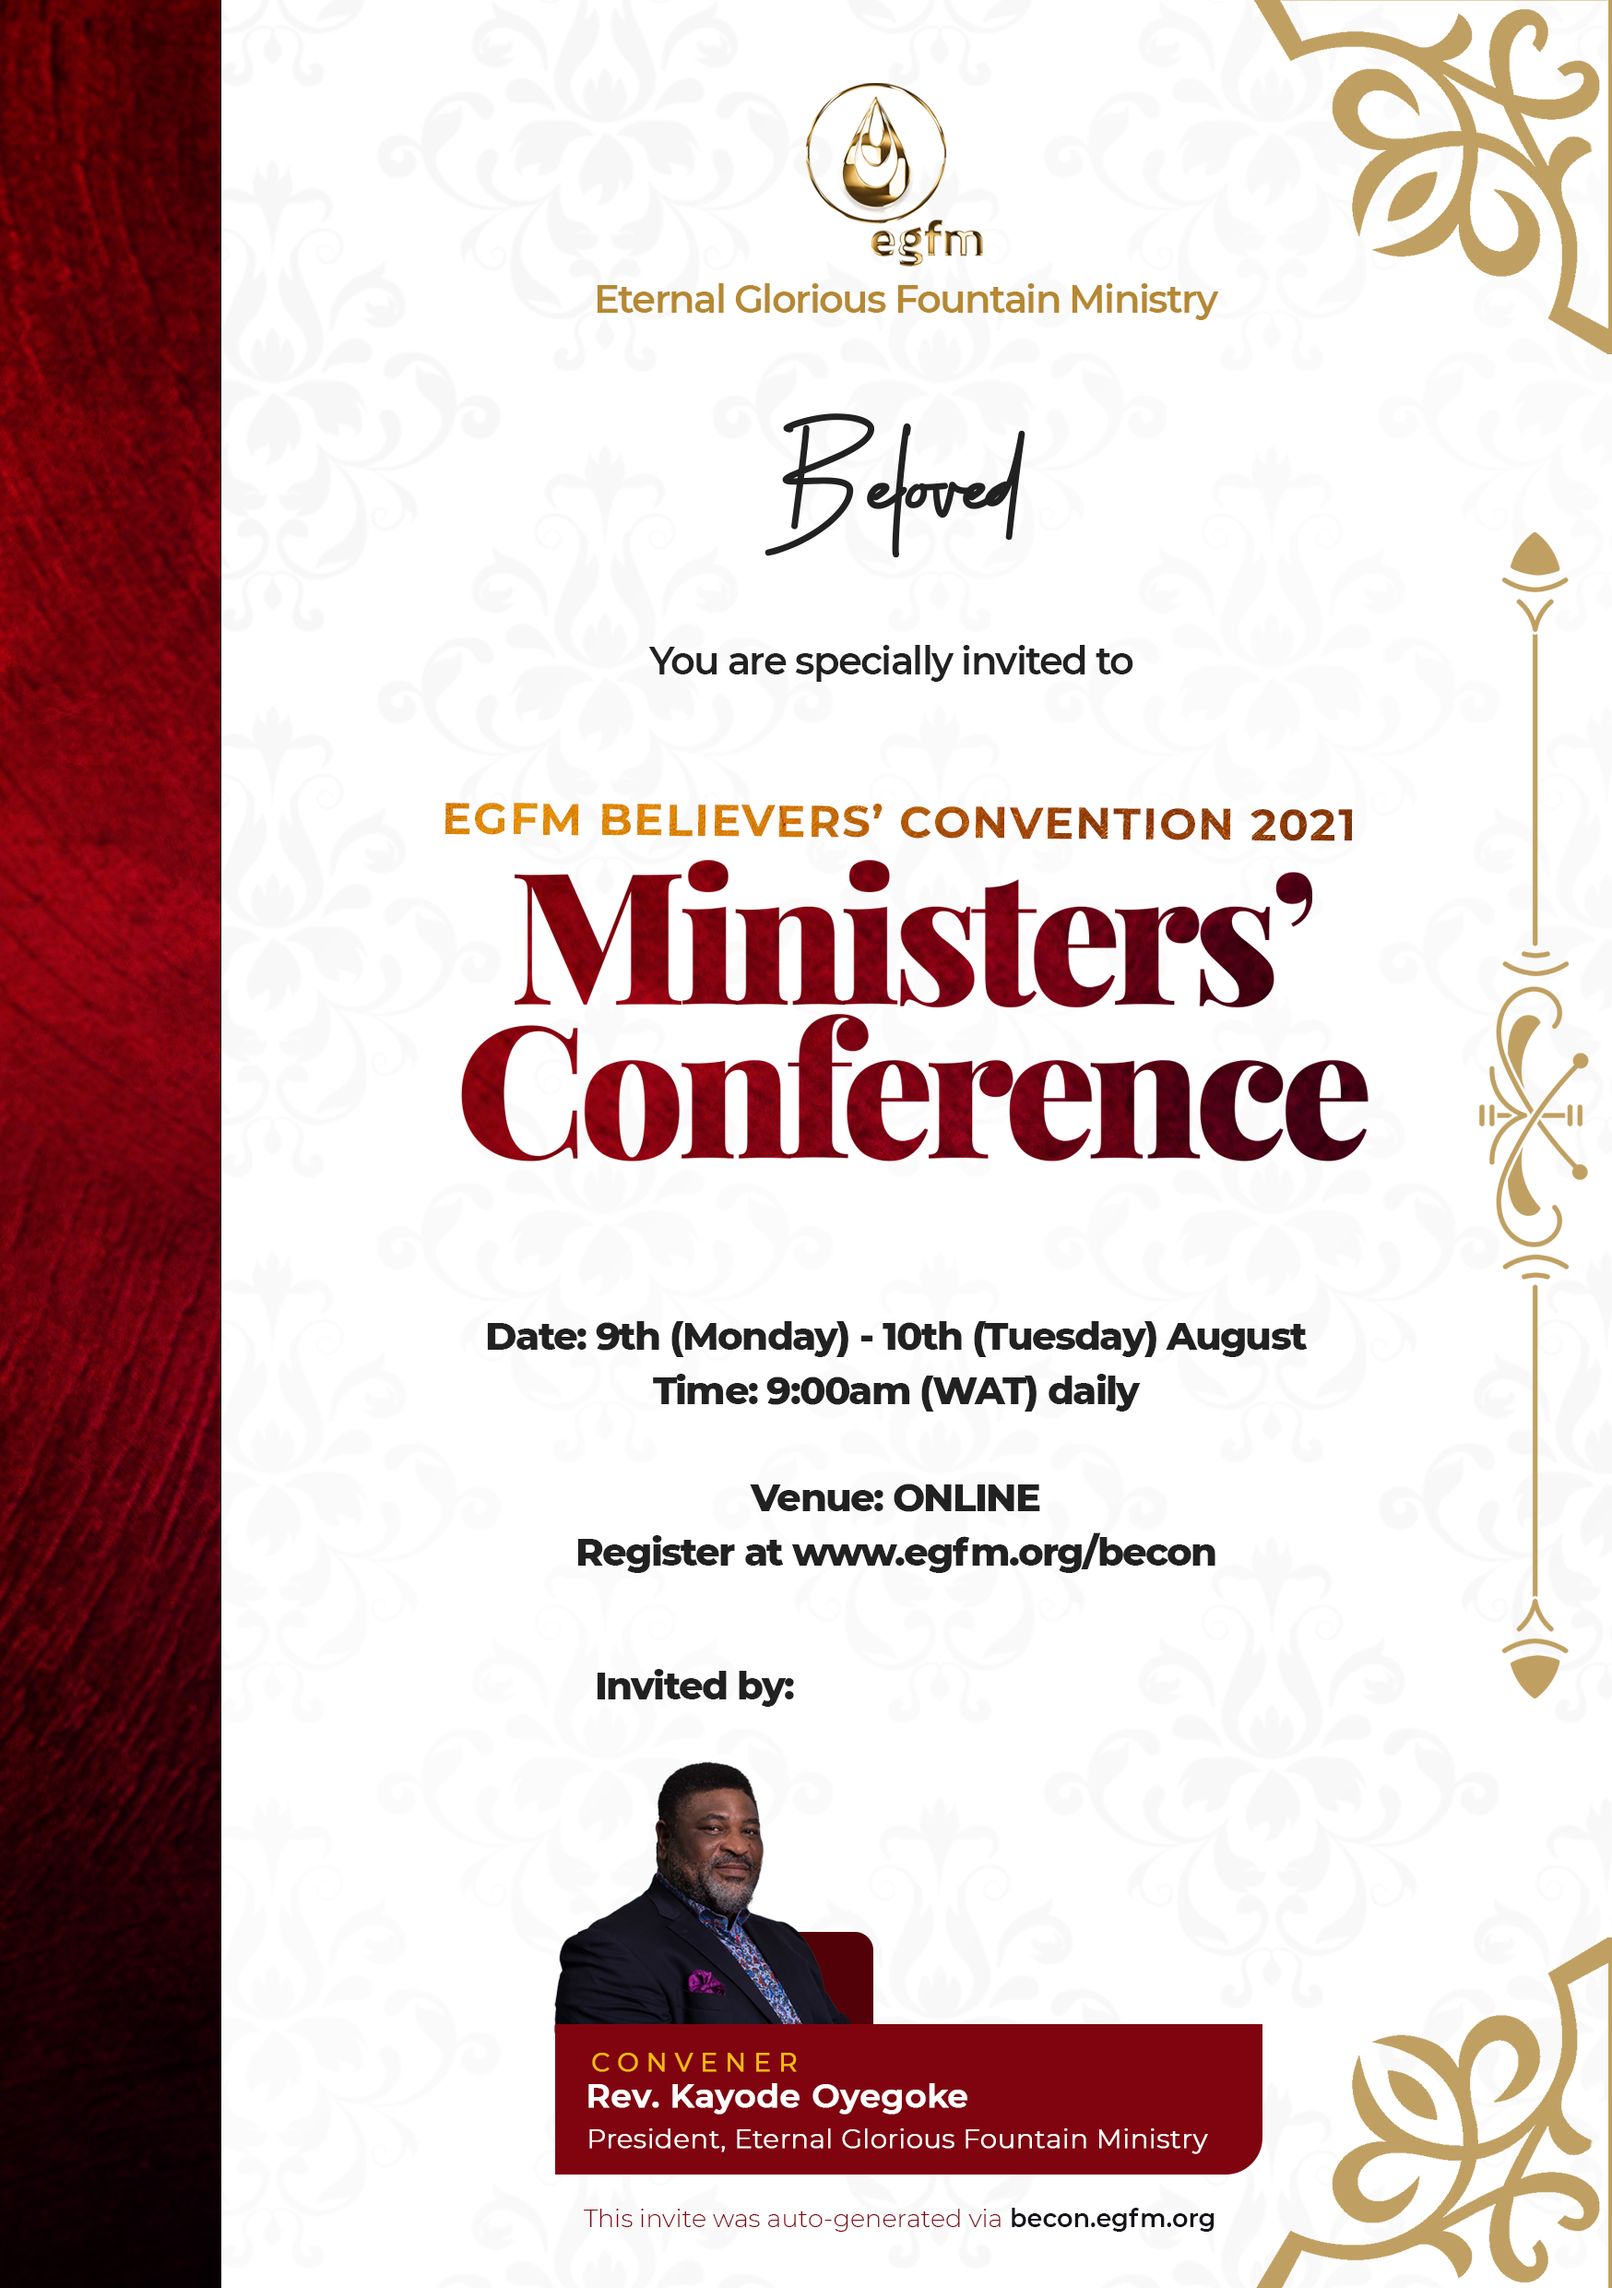
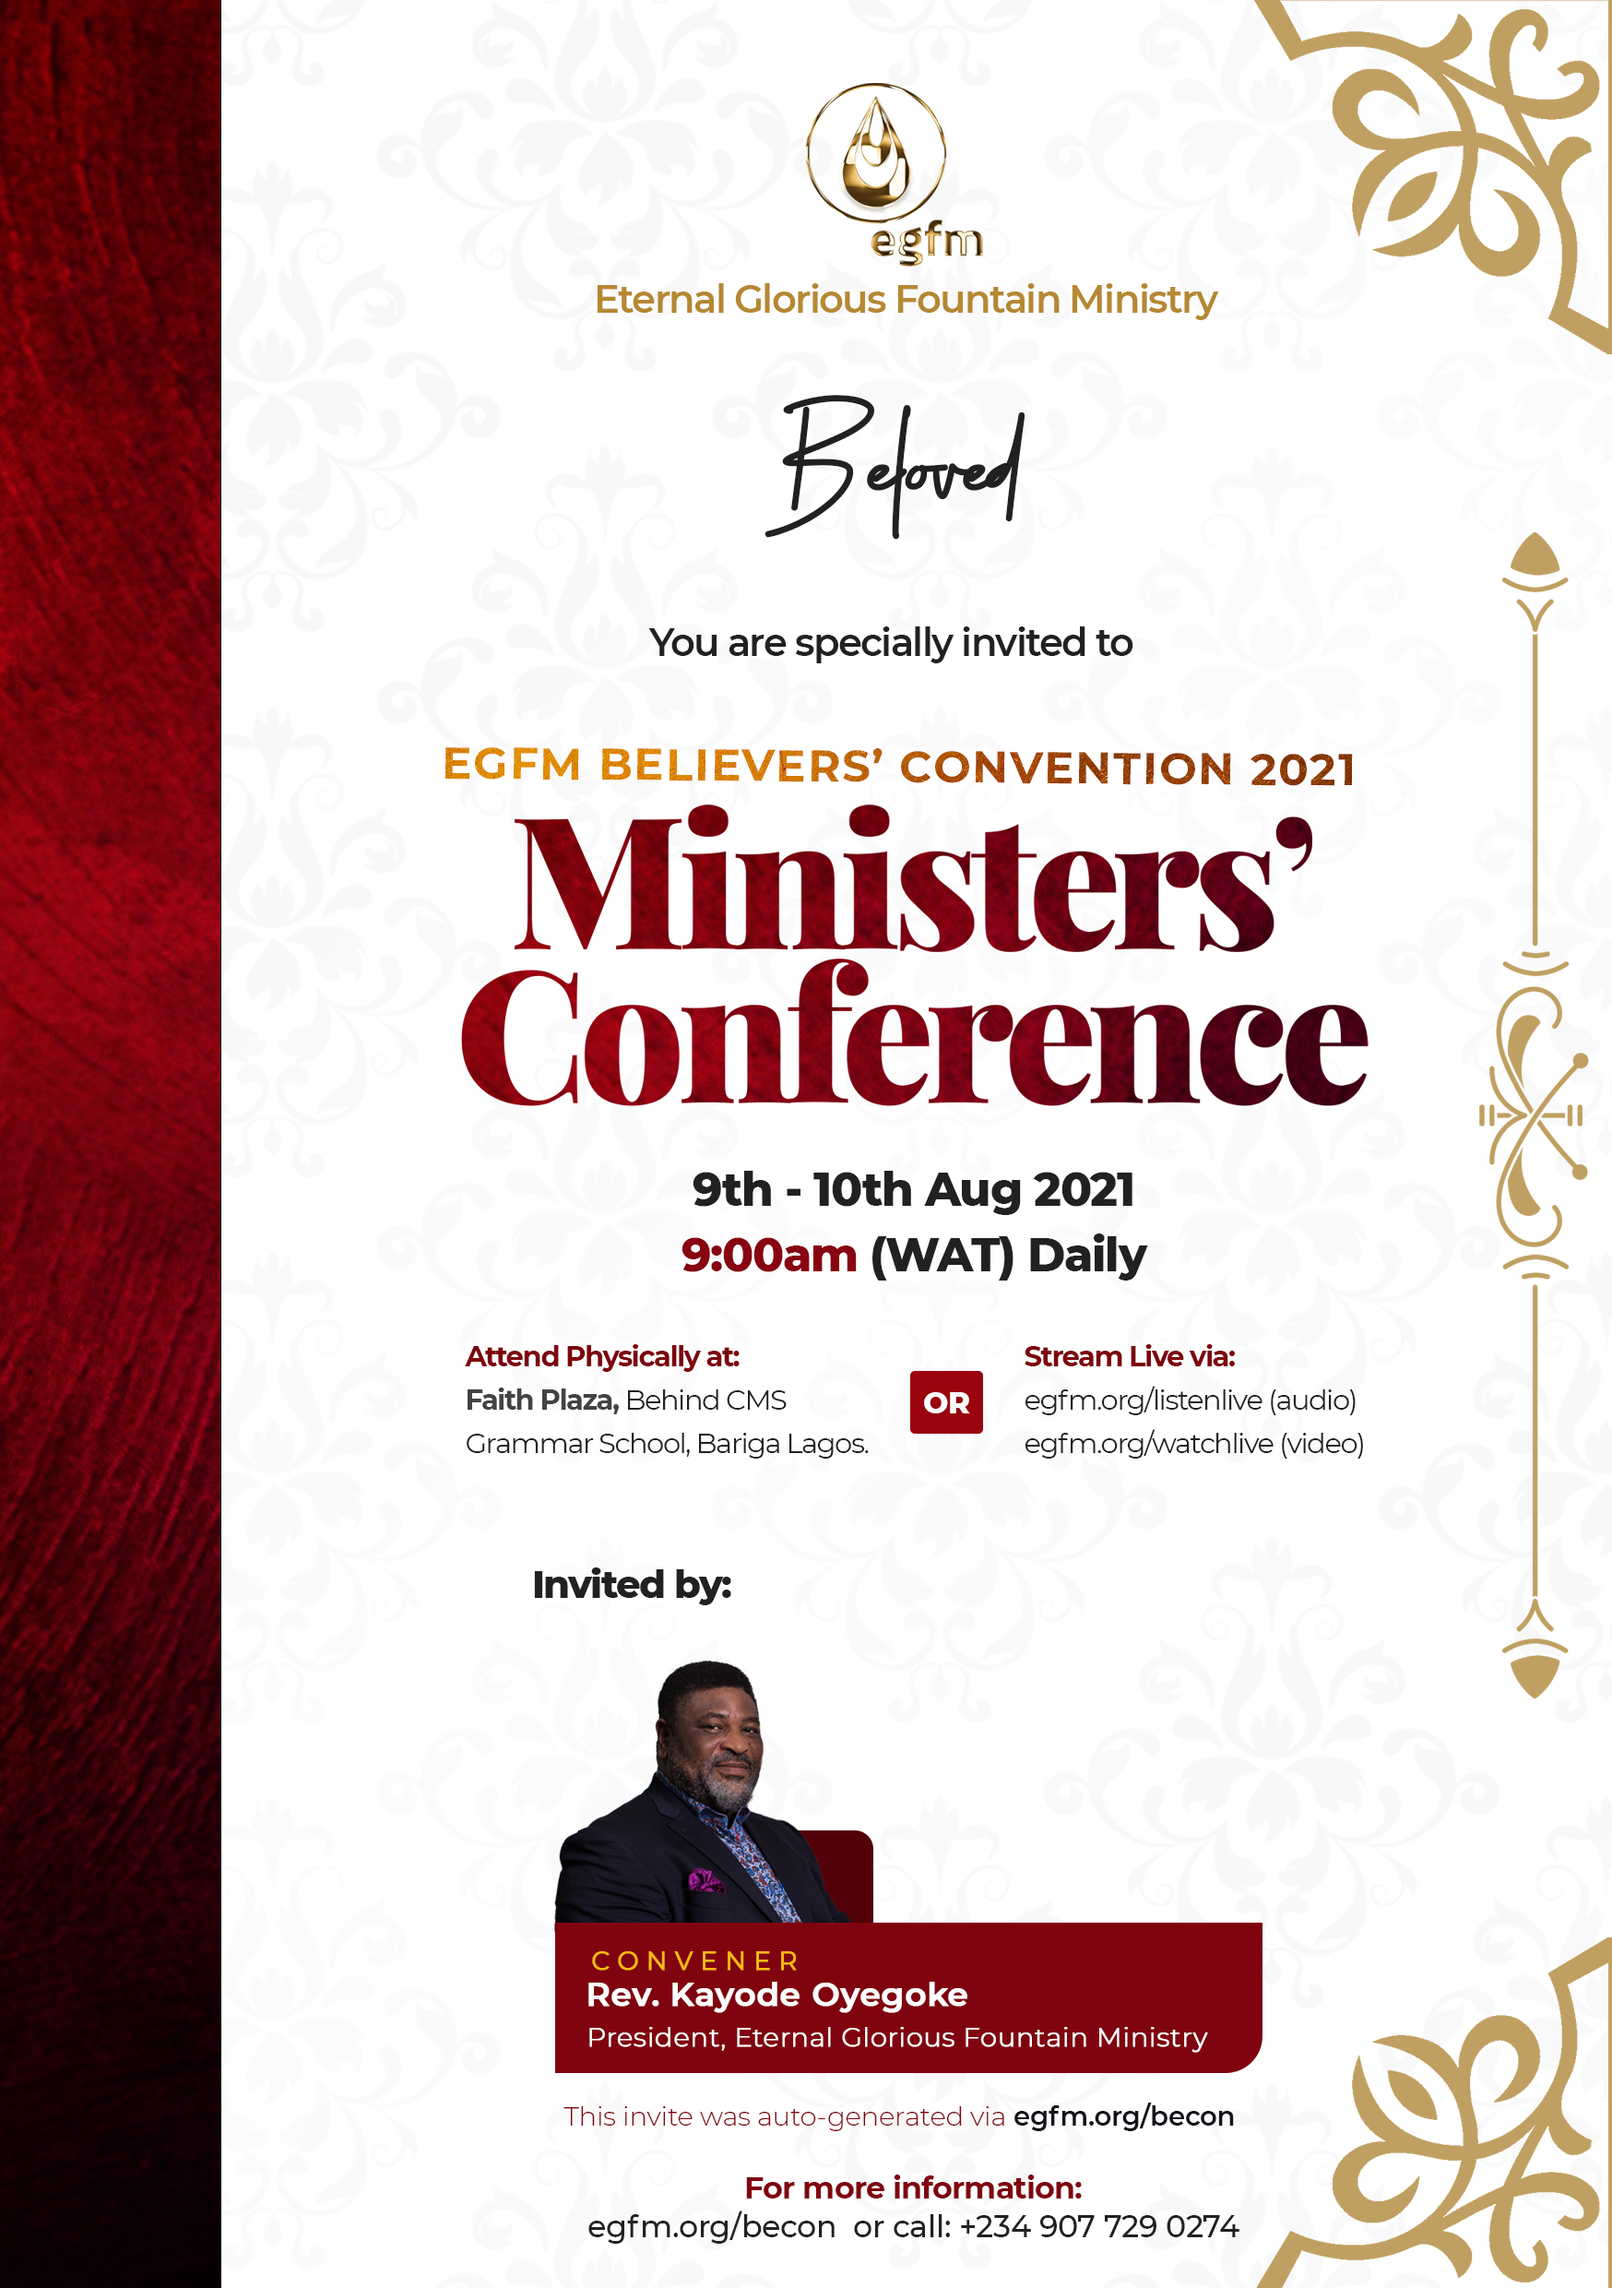
change frame for e-invite

Changed region(s): [[0.278, 0.2794, 0.865, 0.9935], [0.4634, 0.1552, 0.6487, 0.2484]]

diff --git a/dpEngine/js/minister.js b/dpEngine/js/minister.js
@@ -24,9 +24,9 @@ $(function () {
     const text2 = $(`#minister_text_2`).val()
 
     // name, y, x
-    const textData1 = [`${text1}`, 635, 974];
+    const textData1 = [`${text1}`, 615, 974];
     // name, y, x
-    const textData2 = [`${text2}`, 1810, 889];
+    const textData2 = [`${text2}`, 1700, 821];
 
     createDP(textData1, textData2, function (url) {
       navigateTo("yourdp", createHTMLForImage(url));
